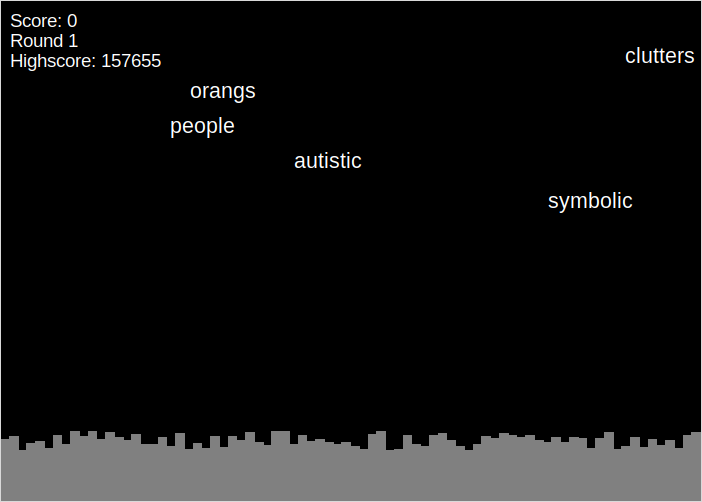
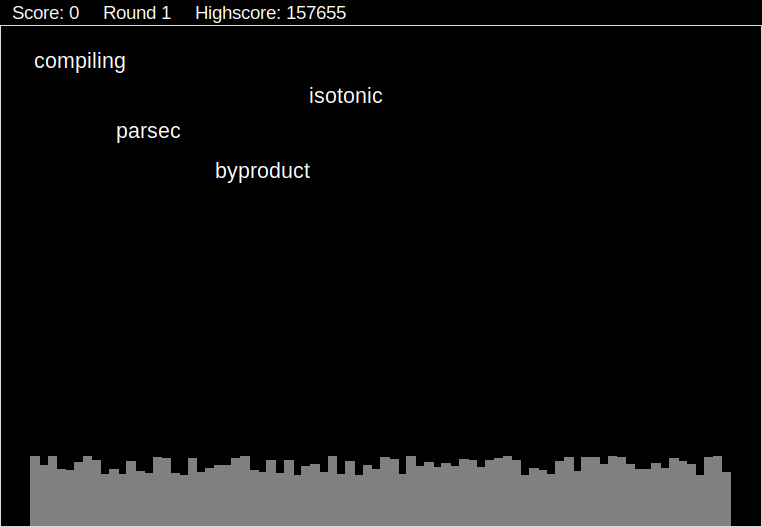
Update README and screenshots

diff --git a/README.md b/README.md
@@ -1,24 +1,25 @@
 # About  
 ![Icon](images/Icon.png)  
-PyNotes is an advanced cross-platform editor and IDE made in Python.  
+PyNotes is an advanced cross-platform text editor and IDE made in Python.  
 Links: [GitHub](https://github.com/rafugafu/pynotes), [Codeberg](codeberg.org/rafugafu/pynotes), [Sourceforge](https://sourceforge.net/projects/pynotespython/), [Launchpad PPA](https://launchpad.net/~rafugafu/+archive/ubuntu/pynotes)  
 ## Important Features  
-* **Programming** - Syntax highlighting and running code with outputs and errors for Python, LaTeX, and HTML! Also has a shell for python and graphical tools for formatting LaTeX.  
-* **Commands** - Powerful Emacs-like commands and options inside PyNotes! (Alt-X to use)  
+* **Programming** - Syntax highlighting and running code with outputs and errors for Python, LaTeX, and HTML! Graphical buttons for formatting LaTeX!  
+* **Alt-X Commands** - Powerful Emacs-like commands and options inside PyNotes!  
 * **Plugins** - Powerful extensions that seamlessly integrate with PyNotes! Very easy to make and install! Currently made by me are: Letter Invaders Game (A fun typing game), Typing (A typing test that also gives feedback and suggestions), 3D Maze Game (A 3D Maze Game with a simple AI as an opponent), Simple Spellcheck (Spellcheck for the editor with the option to change or add dictionaries), ChessPy (A Chess Program where you can play 2 player or with any engine you provide)  
 * **PyCode** - Programming language inside PyNotes to customize it even beyond plugins! You can fully make and change your own keyboard shortcuts, functions, Alt-X commands, startup code, etc!  
 * **MathGod** - Notebook for symbolic math inside PyNotes!  
 * **Email** - Send emails from within PyNotes! Also has a spellcheck and option to change or add new dictionaries for the spellcheck.  
-* **HModes** - Modes like Emacs for different purposes! Changes syntax highlighting, running code, tabs, etc. (Change with Alt-X command `hmode:{py|la|norm|em}` for Python Mode, LaTeX Mode, Normal Text Mode, and Email Mode.)  
+* **HModes** - Modes like Emacs for different purposes! Changes syntax highlighting, running code, tabs, etc.  
 * **Text to speech** - Make PyNotes speak your selection inside the editor!  
 * **Speech to text** - Dictate to write text in the editor!  
-* **Terminal** - Terminal or Powershell inside PyNotes!  
+* **Terminal** - Full Terminal or Powershell inside PyNotes!  
+* **Python Shell / REPL** - Full Python shell / REPL inside PyNotes!  
 * **Preferences** - Fully customize your syntax highlighting and options easily in the preferences!  
 * **Search** - Incremental search for Find and Find & Replace - Find strings without fully typing them!  
 * **Regexp Search** - Find and Find & Replace using regexp!  
 * **Emacs-like keybindings in search** - Option to use Emacs-like keybindings for Find and Find & Replace!  
 * **Backup** - Auto backup option to save your files!  
-* **Quick Installation** - Fast installation with an installer script for Linux and Windows!  
+* **Quick Installation** - Fast installation with an installer script for Linux and a graphical installer for Windows!  
 * **And much more!**  
 ## Screenshots  
 ![Typing Test](images/Typing_Test.png)  